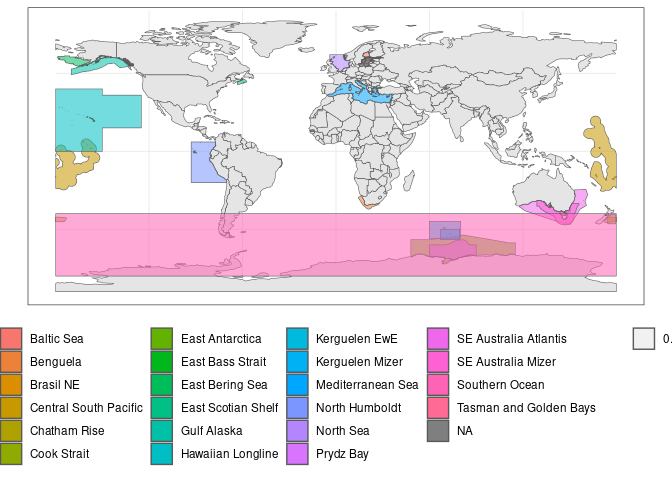
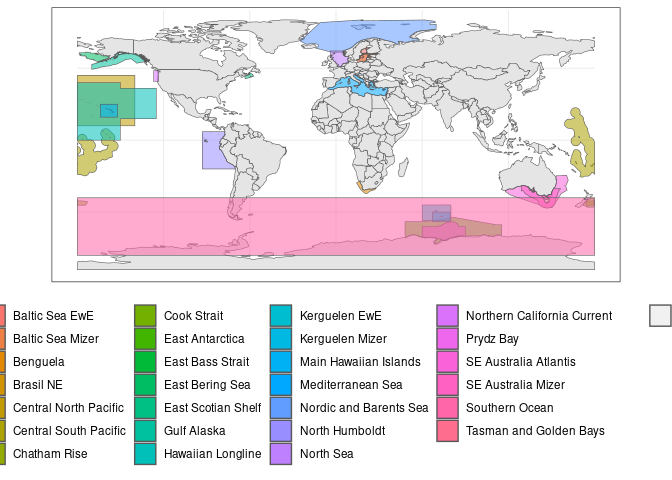
Updating regions

diff --git a/Scripts/01_Merging_Regional_Shapefiles.md b/Scripts/01_Merging_Regional_Shapefiles.md
@@ -88,7 +88,7 @@ region_paths <- region_paths[!str_detect(region_paths, "SupportInfo")]
 
 ## Loading regions
 
-As of October 2023, there are 23 regional FishMIP models. We will use
+As of November 2023, there are 27 regional FishMIP models. We will use
 the boundaries for all these regions to create a single shapefile that
 includes all FishMIP regional models. Having a single file is useful to
 create maps showing all regional models easily. This file can also be
@@ -139,7 +139,7 @@ ggplot()+
 
 ![](01_Merging_Regional_Shapefiles_files/figure-gfm/map-1.png)<!-- -->
 
-The merged shapefile includes 23 different regions, which matches the
+The merged shapefile includes 27 different regions, which matches the
 number of regional FishMIP models. We can now save this merged file.
 
 ``` r
